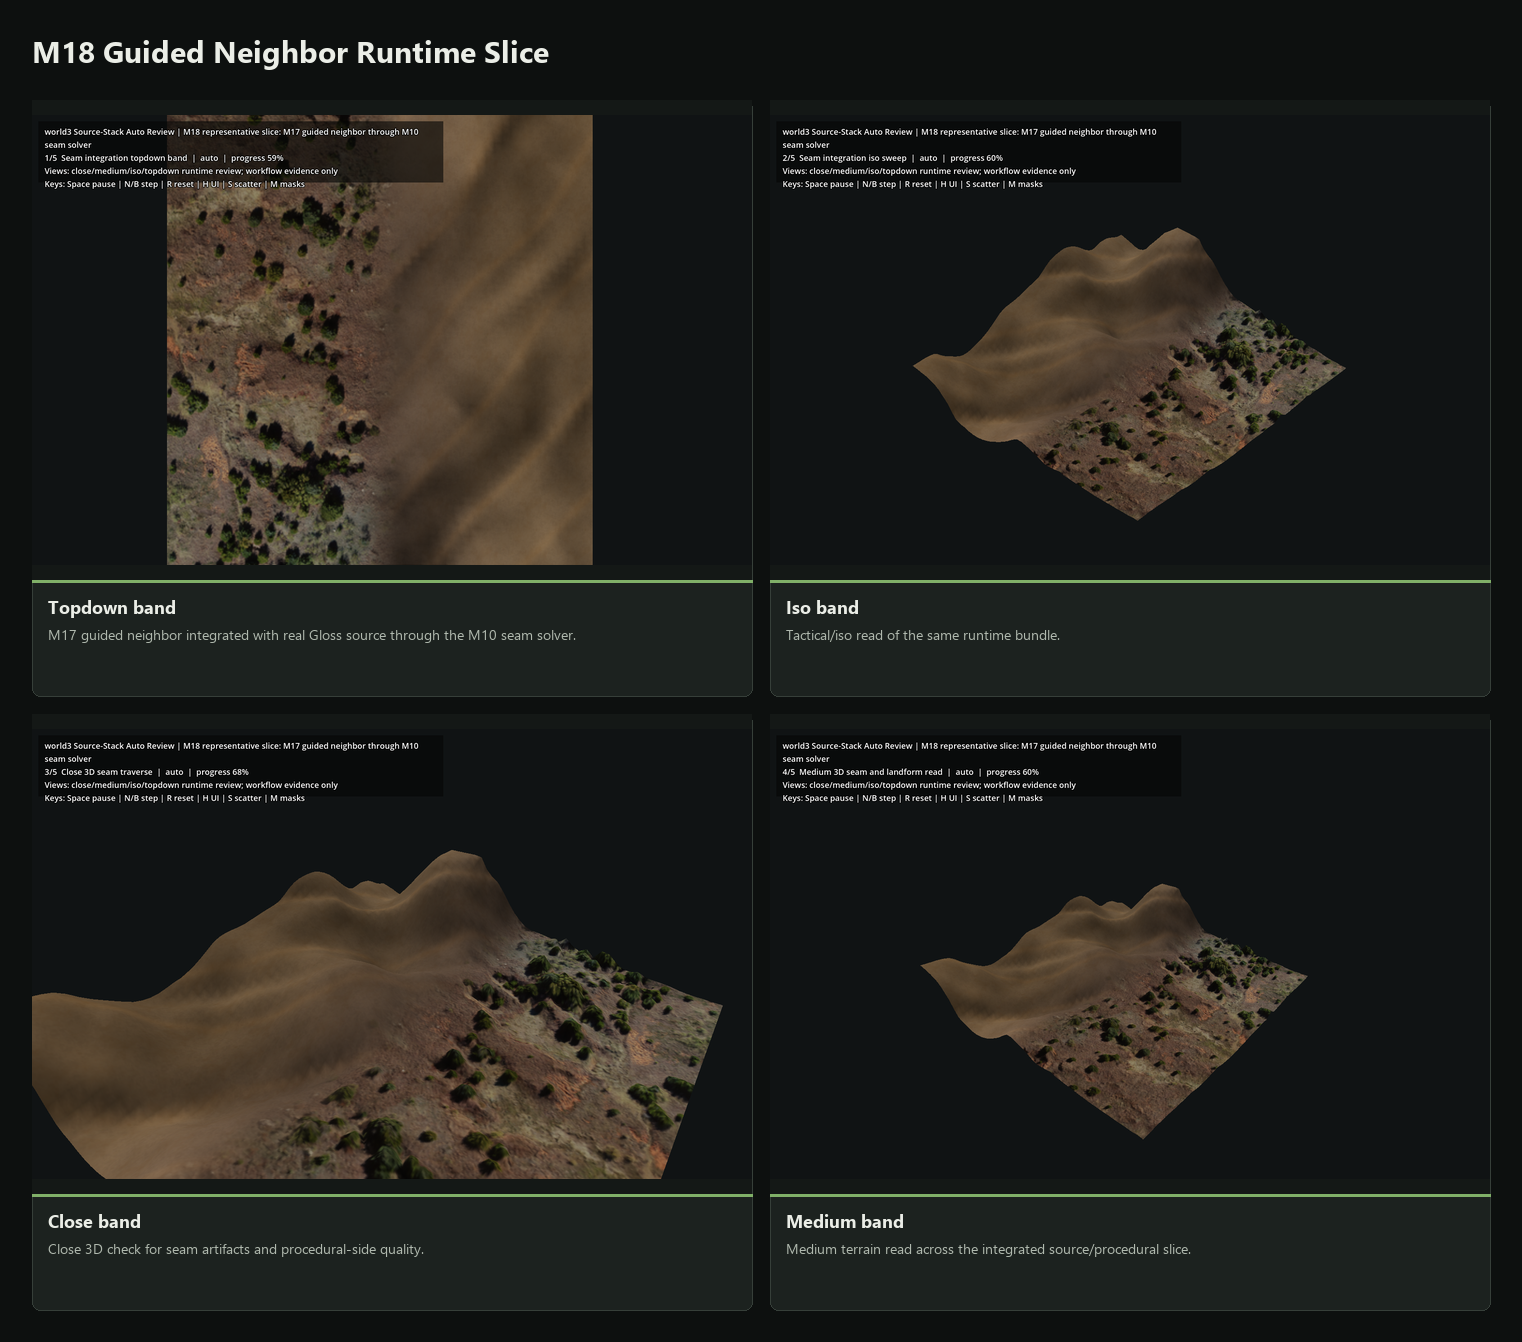
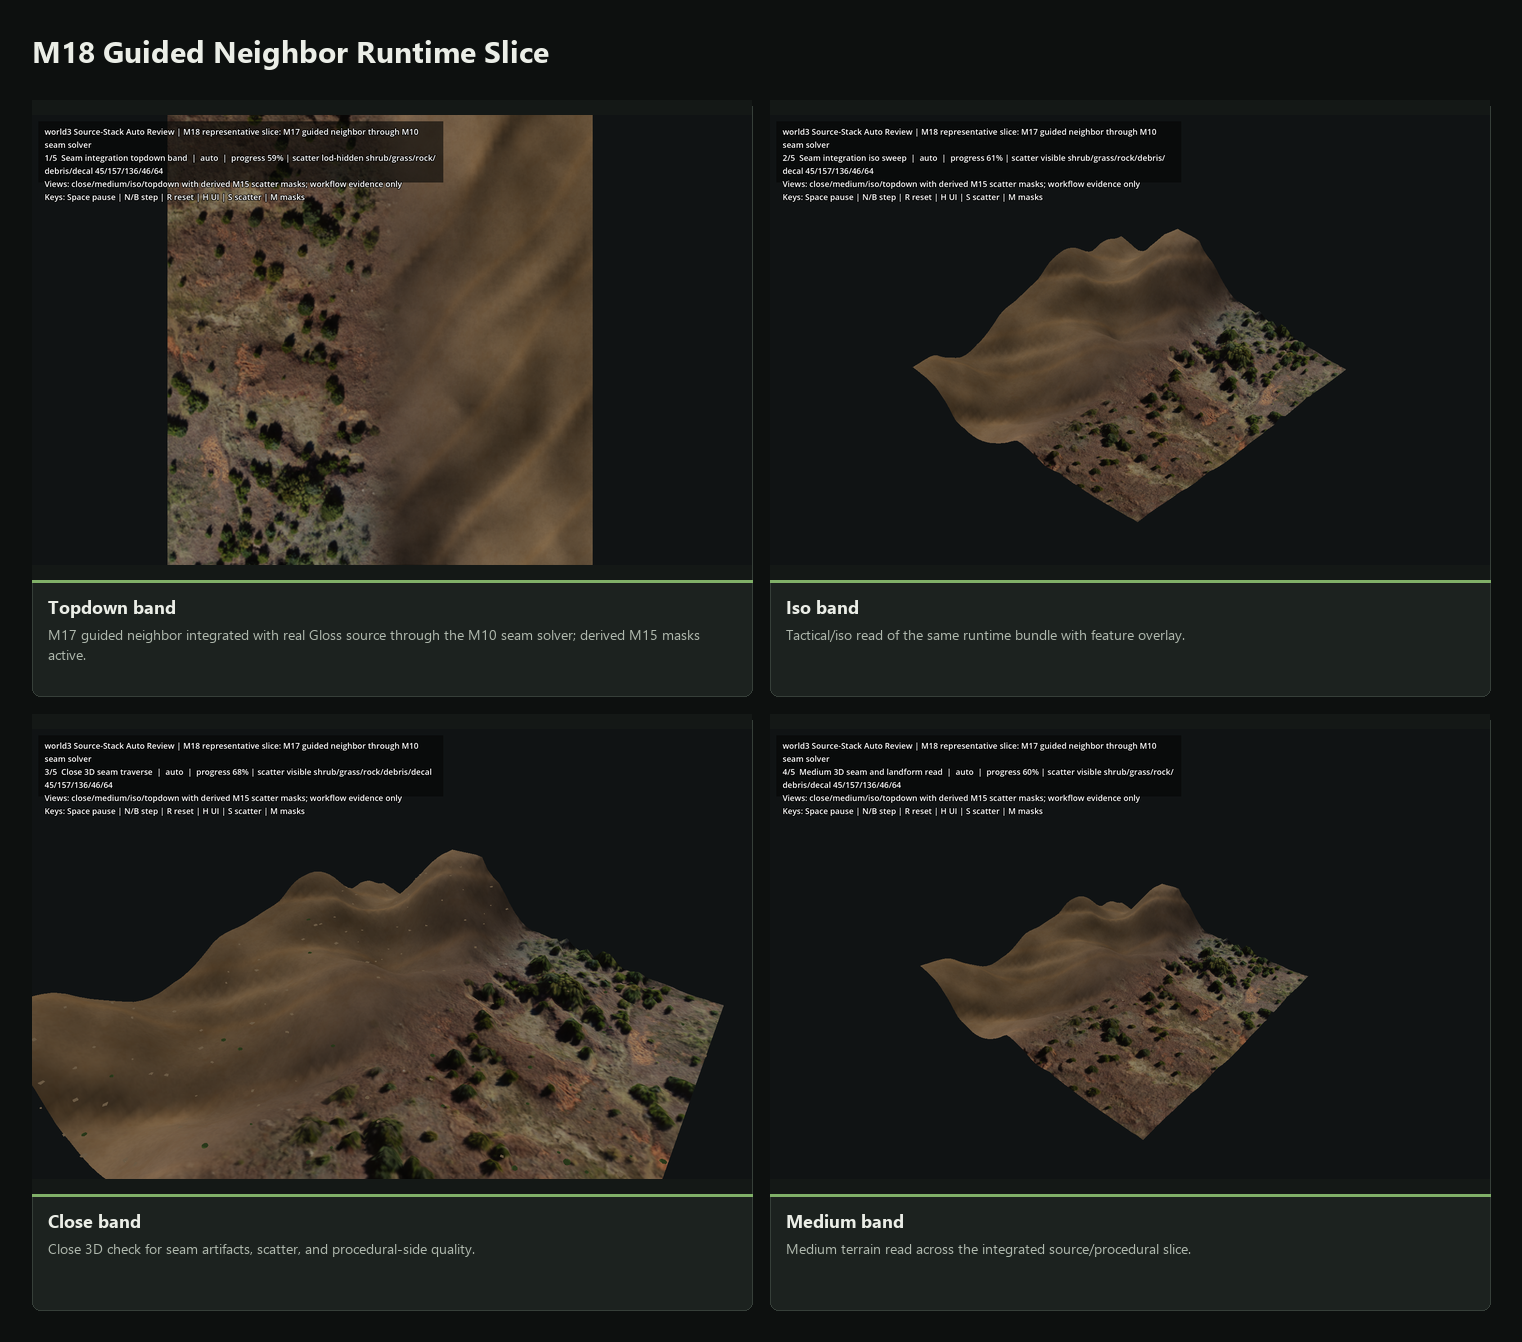
world3: add m18 derived feature masks

diff --git a/world3/pipeline/build_m18_slice_feature_masks.py b/world3/pipeline/build_m18_slice_feature_masks.py
@@ -1,0 +1,159 @@
+#!/usr/bin/env python3
+"""Build first-pass M15-style feature masks for the M18 runtime slice."""
+
+from __future__ import annotations
+
+import json
+from pathlib import Path
+from typing import Any
+
+import numpy as np
+from PIL import Image, ImageFilter
+
+
+WORLD3 = Path(__file__).resolve().parents[1]
+STACK = WORLD3 / "textures/source_stack/m18_guided_neighbor_slice_proof"
+TOPO = WORLD3 / "toporeview/m18_guided_neighbor_slice_proof"
+
+
+def res_path(path: Path) -> str:
+    return "res://" + path.resolve().relative_to(WORLD3.resolve()).as_posix()
+
+
+def load_rgb(path: Path) -> np.ndarray:
+    return np.asarray(Image.open(path).convert("RGB"), dtype=np.float32) / 255.0
+
+
+def load_gray01(path: Path) -> np.ndarray:
+    img = Image.open(path)
+    arr = np.asarray(img)
+    if arr.ndim == 3:
+        arr = arr[:, :, 0]
+    if np.issubdtype(arr.dtype, np.integer) and int(arr.max()) > 255:
+        return arr.astype(np.float32) / 65535.0
+    return arr.astype(np.float32) / 255.0
+
+
+def load_height_m(path: Path, meta: dict[str, Any]) -> np.ndarray:
+    norm = load_gray01(path)
+    elev_min = float(meta.get("elevation_min_m", 0.0))
+    elev_range = float(meta.get("elevation_range_m", 1.0))
+    return elev_min + norm * elev_range
+
+
+def blur01(arr: np.ndarray, radius: float) -> np.ndarray:
+    if radius <= 0.0:
+        return np.asarray(arr, dtype=np.float32)
+    img = Image.fromarray(np.clip(arr * 255.0, 0, 255).astype(np.uint8), mode="L")
+    return np.asarray(img.filter(ImageFilter.GaussianBlur(radius=radius)), dtype=np.float32) / 255.0
+
+
+def smoothstep(x: np.ndarray) -> np.ndarray:
+    x = np.clip(x, 0.0, 1.0)
+    return x * x * (3.0 - 2.0 * x)
+
+
+def normalized(values: np.ndarray, p_lo: float = 5.0, p_hi: float = 95.0) -> np.ndarray:
+    lo = float(np.percentile(values, p_lo))
+    hi = float(np.percentile(values, p_hi))
+    if hi <= lo:
+        return np.zeros_like(values, dtype=np.float32)
+    return np.clip((values - lo) / (hi - lo), 0.0, 1.0)
+
+
+def save_gray(path: Path, arr: np.ndarray) -> dict[str, float]:
+    values = np.clip(arr, 0.0, 1.0).astype(np.float32)
+    Image.fromarray((values * 255.0).astype(np.uint8), mode="L").save(path)
+    return {
+        "mean": float(values.mean()),
+        "coverage_gt_0_25": float(np.mean(values > 0.25)),
+        "coverage_gt_0_50": float(np.mean(values > 0.50)),
+        "p95": float(np.percentile(values, 95)),
+    }
+
+
+def main() -> int:
+    macro = load_rgb(STACK / "source_macro_albedo.png")
+    seam = load_gray01(STACK / "seam_integration_mask.png")
+    meta = json.loads((TOPO / "meta.json").read_text(encoding="utf-8"))
+    height = load_height_m(TOPO / "heightmap.png", meta)
+
+    h, w = seam.shape
+    luma = macro[:, :, 0] * 0.299 + macro[:, :, 1] * 0.587 + macro[:, :, 2] * 0.114
+    r = macro[:, :, 0]
+    g = macro[:, :, 1]
+    b = macro[:, :, 2]
+
+    world_x = float(meta.get("world_size_x_m", w))
+    world_z = float(meta.get("world_size_z_m", h))
+    dz, dx = np.gradient(height, world_z / max(h - 1, 1), world_x / max(w - 1, 1))
+    slope = np.sqrt(dx * dx + dz * dz)
+    slope_n = normalized(slope, 20.0, 98.0)
+    low = blur01(normalized(height), 18.0)
+    valley = normalized(low - normalized(height), 58.0, 98.0)
+
+    x_norm = np.linspace(0.0, 1.0, w, dtype=np.float32)[None, :]
+    right_domain = smoothstep((x_norm - 0.49) / 0.16)
+    seam_no_scatter = blur01(seam, 7.0)
+
+    vegetation = np.clip((g * 1.22 - r * 0.58 - b * 0.32 - luma * 0.18 + 0.08) * 3.4, 0.0, 1.0)
+    dark_organic = np.clip((0.64 - luma) * 2.6, 0.0, 1.0)
+    warm_soil = np.clip((r * 0.78 + g * 0.36 - b * 0.55 - 0.18) * 2.0, 0.0, 1.0)
+    pale_dust = np.clip((luma - 0.34) * 1.8, 0.0, 1.0)
+
+    shrub = blur01(vegetation * dark_organic * (1.0 - slope_n * 0.45), 3.0)
+    shrub *= 1.0 - right_domain * 0.88
+    shrub *= 1.0 - seam_no_scatter * 0.45
+
+    dry_grass = blur01((warm_soil * 0.55 + vegetation * 0.35 + pale_dust * 0.10) * (1.0 - slope_n * 0.55), 5.0)
+    dry_grass = np.maximum(dry_grass, right_domain * 0.10 * (1.0 - slope_n))
+    dry_grass *= 1.0 - seam_no_scatter * 0.35
+
+    rock = blur01((slope_n ** 1.35) * (0.55 + dark_organic * 0.25 + right_domain * 0.35), 2.0)
+    rock *= 1.0 - seam_no_scatter * 0.28
+
+    soil = blur01((warm_soil * 0.65 + pale_dust * 0.35) * (1.0 - shrub * 0.85), 4.0)
+    wash = blur01((valley * 0.78 + right_domain * valley * 0.32) * (1.0 - slope_n * 0.30), 3.0)
+    no_scatter = np.clip(seam_no_scatter * 0.70 + slope_n * 0.42 + wash * 0.18, 0.0, 1.0)
+
+    layers_dir = STACK / "layers"
+    layers_dir.mkdir(parents=True, exist_ok=True)
+    outputs = {
+        "shrub_carryover_mask": shrub,
+        "dry_grass_density_mask": dry_grass,
+        "rock_cluster_mask": rock,
+        "soil_exposure_mask": soil,
+        "wash_line_mask": wash,
+        "no_scatter_mask": no_scatter,
+    }
+
+    metrics: dict[str, Any] = {}
+    layer_paths: dict[str, str] = {}
+    for name, arr in outputs.items():
+        out_path = layers_dir / f"{name}.png"
+        metrics[name] = save_gray(out_path, arr)
+        layer_paths[name] = res_path(out_path)
+
+    summary_path = layers_dir / "feature_mask_metrics.json"
+    summary_path.write_text(json.dumps({"version": 1, "metrics": metrics}, indent=2) + "\n", encoding="utf-8")
+
+    manifest_path = STACK / "manifest.json"
+    manifest = json.loads(manifest_path.read_text(encoding="utf-8"))
+    layers = dict(manifest.get("layers", {}))
+    layers.update(layer_paths)
+    layers["feature_mask_metrics"] = res_path(summary_path)
+    manifest["layers"] = layers
+    manifest["m18_feature_masks"] = {
+        "version": 1,
+        "builder": "build_m18_slice_feature_masks.py",
+        "policy": "derived_from_m18_runtime_macro_height_seam_mask_for_m15_overlay",
+        "metrics": metrics,
+    }
+    manifest_path.write_text(json.dumps(manifest, indent=2) + "\n", encoding="utf-8")
+
+    print(f"OK {summary_path.relative_to(WORLD3)}")
+    return 0
+
+
+if __name__ == "__main__":
+    raise SystemExit(main())

diff --git a/world3/docs/M18_REPRESENTATIVE_SLICE_FIRST_PASS_2026_05_10.md b/world3/docs/M18_REPRESENTATIVE_SLICE_FIRST_PASS_2026_05_10.md
@@ -1,8 +1,9 @@
 # M18 Representative Slice First Pass - 2026-05-10
 
 M18 starts with a constrained runtime proof: take the M17 guided procedural
-neighbor, rebake it through the accepted M10 seam solver, and review it through
-the same close/medium/iso/topdown bands used by M12/M13.
+neighbor, rebake it through the accepted M10 seam solver, derive M15-style
+feature masks from that runtime bundle, and review it through the same
+close/medium/iso/topdown bands used by M12/M13.
 
 This is not full M18 closure. It is the first runtime slice scaffold.
 
@@ -21,6 +22,8 @@ This is not full M18 closure. It is the first runtime slice scaffold.
   `world3/toporeview/m18_guided_neighbor_slice_proof/`.
 - Metrics:
   `world3/docs/captures/review/terrain_seam_m18_guided_neighbor_metrics.json`.
+- Derived feature-mask metrics:
+  `world3/textures/source_stack/m18_guided_neighbor_slice_proof/layers/feature_mask_metrics.json`.
 - Tour scene:
   `world3/scenes/review/source_stack_m18_guided_neighbor_tour.tscn`.
 - Capture sheet:
@@ -32,12 +35,15 @@ This is not full M18 closure. It is the first runtime slice scaffold.
 - Post-overlap height mismatch: `1.90 m` median, `6.95 m` p95.
 - Macro join p95: `0.086` left-to-band, `0.009` band-to-right.
 - Valid-mask coverage: `1.0`.
+- Feature masks: shrub `0.097` mean, dry grass `0.310`, rock `0.131`,
+  soil `0.306`, wash `0.112`, no-scatter `0.210`.
 
 ## Visual Read
 
 Accepted as workflow evidence:
 
 - The M17 procedural bundle can re-enter the source-stack terrain path.
+- Derived M15 scatter/decal masks now run on the same M18 terrain bundle.
 - Topdown, iso, close, and medium captures all come from the same runtime
   bundle.
 - There is no invalid plateau, missing-data void, or Godot capture failure.
@@ -45,16 +51,19 @@ Accepted as workflow evidence:
 Conditional / not accepted as final:
 
 - The procedural side still reads too smooth and broad in close/medium views.
-- This first pass does not yet combine M15 scatter/features or M11 junction
-  ownership into the same runtime slice.
+- The feature overlay still uses procedural review primitives, not authored
+  production scatter assets.
+- This first pass does not yet combine M11 junction ownership into the same
+  runtime slice.
 - The transition is mechanically solved, not final art-directed ecotone quality.
 
 ## Next
 
-1. Add M15 feature/scatter policy to the M18 runtime slice.
-2. Decide whether M11 junction ownership must be physically composed into the
+1. Decide whether M11 junction ownership must be physically composed into the
    same terrain, or represented as a required adjacent runtime band in the M18
    review harness.
+2. Replace procedural feature primitives with authored scatter library assets
+   while preserving the derived-mask workflow.
 3. Improve the procedural neighbor generator with richer drainage, rock
    exposure, and close-detail fields before any production promotion attempt.
 
@@ -62,4 +71,5 @@ Regenerate the slice:
 
 ```powershell
 python world3/pipeline/build_terrain_seam_integration_proof.py --left-macro world3/textures/source_stack/gloss_scrub_source_stack/source_macro_albedo.png --left-valid-mask world3/textures/source_stack/gloss_scrub_source_stack/source_macro_valid_mask.png --left-heightmap world3/toporeview/gloss_mountain_textured_master/heightmap.png --left-meta world3/toporeview/gloss_mountain_textured_master/meta.json --right-macro world3/toporeview/m17_guided_desert_canyon_neighbor/layers/render_albedo.png --right-valid-mask world3/toporeview/m17_guided_desert_canyon_neighbor/layers/source_valid_mask.png --right-heightmap world3/toporeview/m17_guided_desert_canyon_neighbor/heightmap.png --right-meta world3/toporeview/m17_guided_desert_canyon_neighbor/meta.json --left-crop 229,734,229,457 --right-crop 0,0,512,1024 --output-size 512,1024 --overlap-px 128 --height-feather-px 224 --color-feather-px 384 --profile-blur-px 20 --macro-band-mode blend --macro-bridge-blur-px 26 --macro-bridge-detail-strength 0.12 --artifact-name "M18 guided procedural neighbor representative slice" --integration-kind m18_guided_real_to_procedural_integration_band_proof --policy m17_extracted_rules_rebaked_through_m10_seam_solver_for_m18_runtime_review --texture-out world3/textures/source_stack/m18_guided_neighbor_slice_proof --topo-out world3/toporeview/m18_guided_neighbor_slice_proof --metrics-out world3/docs/captures/review/terrain_seam_m18_guided_neighbor_metrics.json
+python world3/pipeline/build_m18_slice_feature_masks.py
 ```

diff --git a/world3/docs/WORKFLOW.md b/world3/docs/WORKFLOW.md
@@ -866,6 +866,7 @@ M18 guided-neighbor runtime slice:
 
 ```powershell
 python world3/pipeline/build_terrain_seam_integration_proof.py --left-macro world3/textures/source_stack/gloss_scrub_source_stack/source_macro_albedo.png --left-valid-mask world3/textures/source_stack/gloss_scrub_source_stack/source_macro_valid_mask.png --left-heightmap world3/toporeview/gloss_mountain_textured_master/heightmap.png --left-meta world3/toporeview/gloss_mountain_textured_master/meta.json --right-macro world3/toporeview/m17_guided_desert_canyon_neighbor/layers/render_albedo.png --right-valid-mask world3/toporeview/m17_guided_desert_canyon_neighbor/layers/source_valid_mask.png --right-heightmap world3/toporeview/m17_guided_desert_canyon_neighbor/heightmap.png --right-meta world3/toporeview/m17_guided_desert_canyon_neighbor/meta.json --left-crop 229,734,229,457 --right-crop 0,0,512,1024 --output-size 512,1024 --overlap-px 128 --height-feather-px 224 --color-feather-px 384 --profile-blur-px 20 --macro-band-mode blend --macro-bridge-blur-px 26 --macro-bridge-detail-strength 0.12 --artifact-name "M18 guided procedural neighbor representative slice" --integration-kind m18_guided_real_to_procedural_integration_band_proof --policy m17_extracted_rules_rebaked_through_m10_seam_solver_for_m18_runtime_review --texture-out world3/textures/source_stack/m18_guided_neighbor_slice_proof --topo-out world3/toporeview/m18_guided_neighbor_slice_proof --metrics-out world3/docs/captures/review/terrain_seam_m18_guided_neighbor_metrics.json
+python world3/pipeline/build_m18_slice_feature_masks.py
 ```
 
 Visual review scene:
@@ -882,9 +883,10 @@ Capture wrappers:
 - `res://scenes/review/capture_source_stack_m18_guided_neighbor_medium.tscn`
 
 M18 first pass is conditional. It proves that M17 procedural output can be
-reviewed in the runtime terrain path, but full M18 closure still needs
-M15 scatter/features and M11 junction ownership in the same representative
-review harness.
+reviewed in the runtime terrain path and that M15-style derived masks can feed
+the existing scatter overlay. Full M18 closure still needs M11 junction
+ownership in the same representative review harness, plus authored scatter
+assets replacing procedural review primitives.
 
 ## What's NOT yet documented here (because it doesn't exist yet)
 

diff --git a/world3/docs/M13_M18_POST_PARITY_ROADMAP_2026_05_10.md b/world3/docs/M13_M18_POST_PARITY_ROADMAP_2026_05_10.md
@@ -218,11 +218,14 @@ Current evidence 2026-05-10:
 - Review scene: `scenes/review/source_stack_m18_guided_neighbor_tour.tscn`.
 - Capture sheet:
   `docs/captures/review/source_stack_m18_guided_neighbor_contact_sheet.png`.
+- Derived feature masks:
+  `textures/source_stack/m18_guided_neighbor_slice_proof/layers/`.
 - Status: conditional workflow evidence. The M17 neighbor can re-enter the
-  runtime source-stack path and all four view bands capture cleanly. This is
-  not M18 closure yet because M15 scatter/features and M11 junction ownership
-  are not physically composed into the same runtime slice, and the procedural
-  side still needs richer close-detail fields.
+  runtime source-stack path, M15-style derived feature masks feed the existing
+  scatter overlay, and all four view bands capture cleanly. This is not M18
+  closure yet because M11 junction ownership is not physically composed into the
+  same runtime slice, feature assets are still procedural primitives, and the
+  procedural side still needs richer close-detail fields.
 
 ## Current First Move
 
@@ -234,6 +237,7 @@ scatter/decal placement with procedural review primitives. M16 proves the
 source-stack gallery bridge and first cached iso sidecar. M17 now has a
 first-pass real-data rule extractor and guided procedural-neighbor bundle. None
 of these are production-promoted terrain content. M18 is now active with a
-first-pass guided-neighbor runtime slice. The next build move is to add the M15
-feature policy and decide the cleanest way to include M11 junction ownership in
-the same M18 review harness without weakening the source-stack contract.
+first-pass guided-neighbor runtime slice and derived M15-style feature masks.
+The next build move is to decide the cleanest way to include M11 junction
+ownership in the same M18 review harness without weakening the source-stack
+contract.

diff --git a/world3/docs/PLAN.md b/world3/docs/PLAN.md
@@ -433,8 +433,11 @@ into `textures/source_stack/m18_guided_neighbor_slice_proof/` and
 `toporeview/m18_guided_neighbor_slice_proof/`, then captured through
 `scenes/review/source_stack_m18_guided_neighbor_tour.tscn` across topdown, iso,
 close, and medium bands. Status is conditional workflow evidence, not M18
-closure: the next pass must add M15 feature/scatter policy and settle how M11
-junction ownership appears in the same review harness.
+closure: `pipeline/build_m18_slice_feature_masks.py` now derives M15-style
+feature masks from the M18 runtime macro/height/seam data and the tour scene
+feeds them into the existing scatter overlay. The next pass must settle how M11
+junction ownership appears in the same review harness and replace procedural
+feature primitives with authored scatter assets.
 
 ## M7 current checkpoint
 
